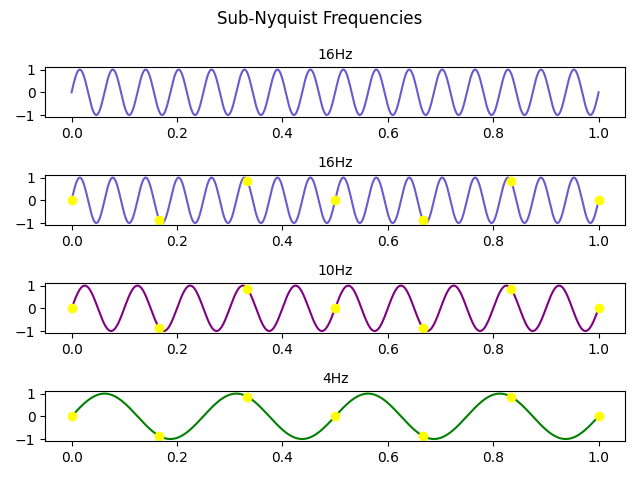
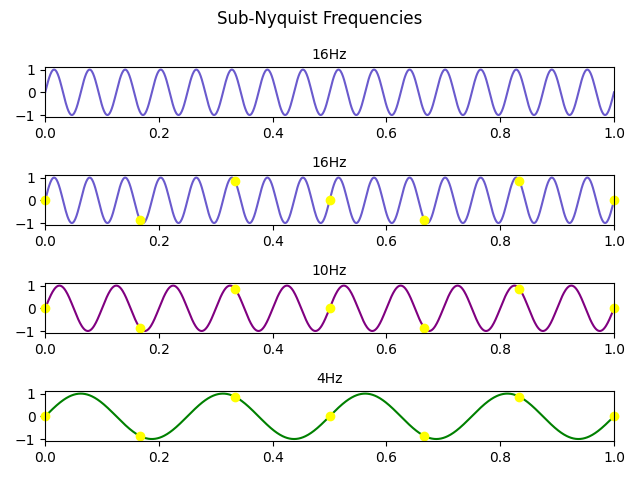
fixed display issues

diff --git a/Third Year/First Semester/Signal Processing/Labs/L04/proj/exercise_02.py b/Third Year/First Semester/Signal Processing/Labs/L04/proj/exercise_02.py
@@ -38,11 +38,14 @@ fig.suptitle("Sub-Nyquist Frequencies")
 
 axs[0].plot(x_domain, signals[0].plot, color="slateblue")
 axs[0].set_title(signals[0].frequency)
+axs[0].set_xlim([0, 1])
 
 for ax, signal in zip(axs[1:], signals):
     ax.plot(x_domain, signal.plot, color=signal.color, zorder=1)
-    ax.scatter(nts, signal.scatter, color="yellow", alpha=1, zorder=2)
+    ax.scatter(nts, signal.scatter, color="yellow", alpha=1, zorder=2, clip_on=False)
+
     ax.set_title(signal.frequency)
+    ax.set_xlim([0, 1])
 
 
 plt.tight_layout()
